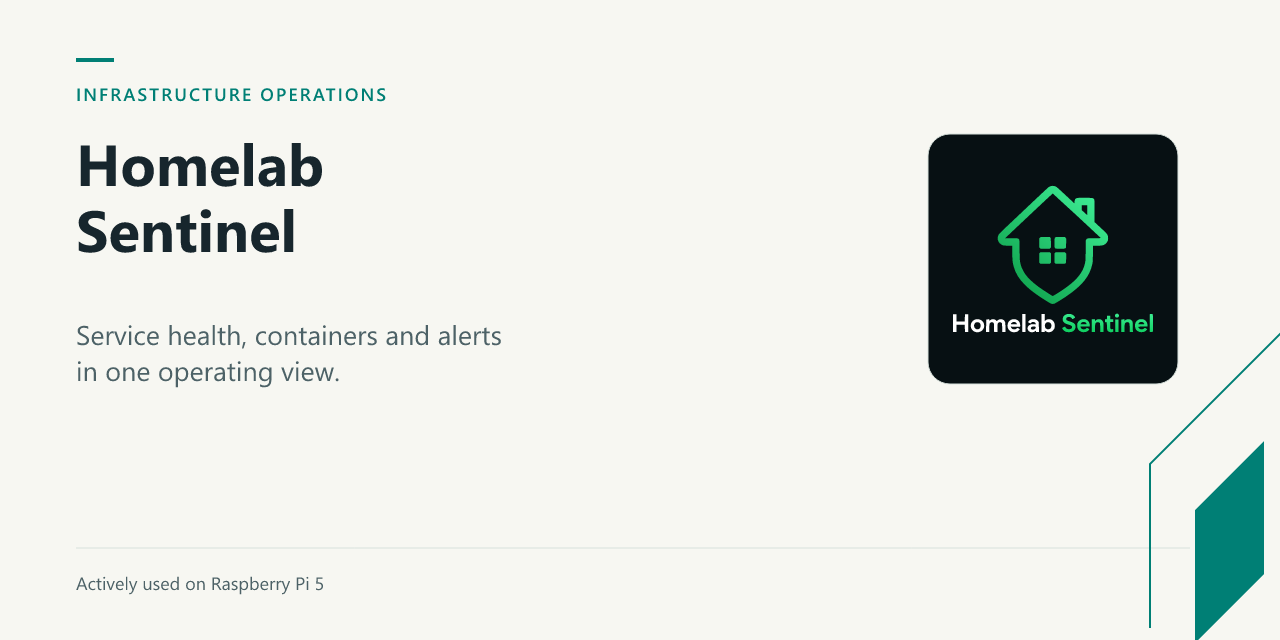
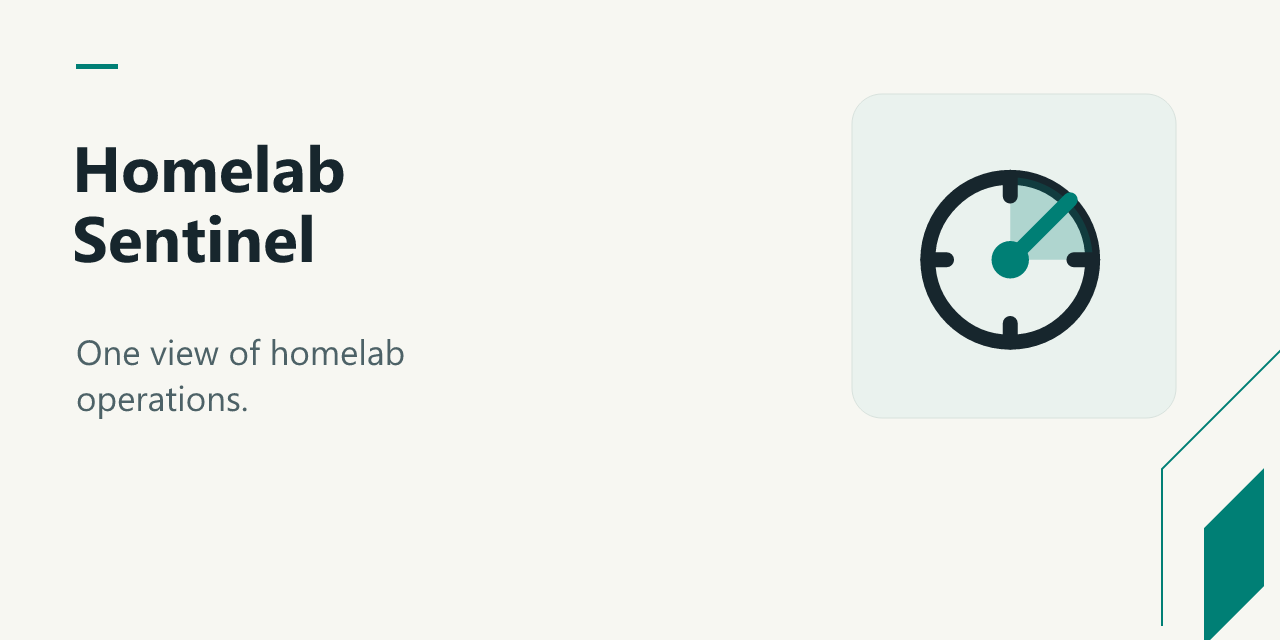
Refresh Sentinel branding and factual metadata

diff --git a/webapp/frontend/index.html b/webapp/frontend/index.html
@@ -2,10 +2,10 @@
 <html lang="en" class="dark">
   <head>
     <meta charset="UTF-8" />
-    <link rel="icon" type="image/svg+xml" href="/logo.svg" />
+    <link rel="icon" type="image/svg+xml" href="/favicon.svg" />
     <meta name="viewport" content="width=device-width, initial-scale=1.0" />
-    <title>Homelab Sentinel — Infrastructure Control Center</title>
-    <meta name="description" content="Production-Grade Security, Container Management, & LAN Monitoring Dashboard for Linux arm64 Servers" />
+    <title>Homelab Sentinel — Infrastructure Operations Dashboard</title>
+    <meta name="description" content="Self-hosted dashboard for service health, Docker operations, network visibility and alerts. Designed and tested on Raspberry Pi 5." />
     <link rel="preconnect" href="https://fonts.googleapis.com">
     <link rel="preconnect" href="https://fonts.gstatic.com" crossorigin>
     <link href="https://fonts.googleapis.com/css2?family=Inter:wght@300;400;500;600;700&display=swap" rel="stylesheet">

diff --git a/docs/brand/README.md b/docs/brand/README.md
@@ -1,5 +1,5 @@
 # Project presentation assets
 
-The PNG header is used in the project README. The social preview is used by GitHub when the repository is shared. Matching SVG sources preserve editable text and original logo artwork.
+The header, social preview, evidence visual and new project mark share the ivory, ink and teal identity. Editable SVG masters and logo provenance are maintained in [the profile repository](https://github.com/MoayadAlshehry/MoayadAlshehry/tree/main/brand).
 
-The shared identity and logo provenance are maintained in [Moayad Alshehry’s profile repository](https://github.com/MoayadAlshehry/MoayadAlshehry/tree/main/brand). These are presentation graphics; actual application screenshots are kept separately.
+Evidence visuals distinguish actual interfaces, fictional demonstration data, illustrative workflows and offline examples. Product behavior and hardware support are documented in the main README.
